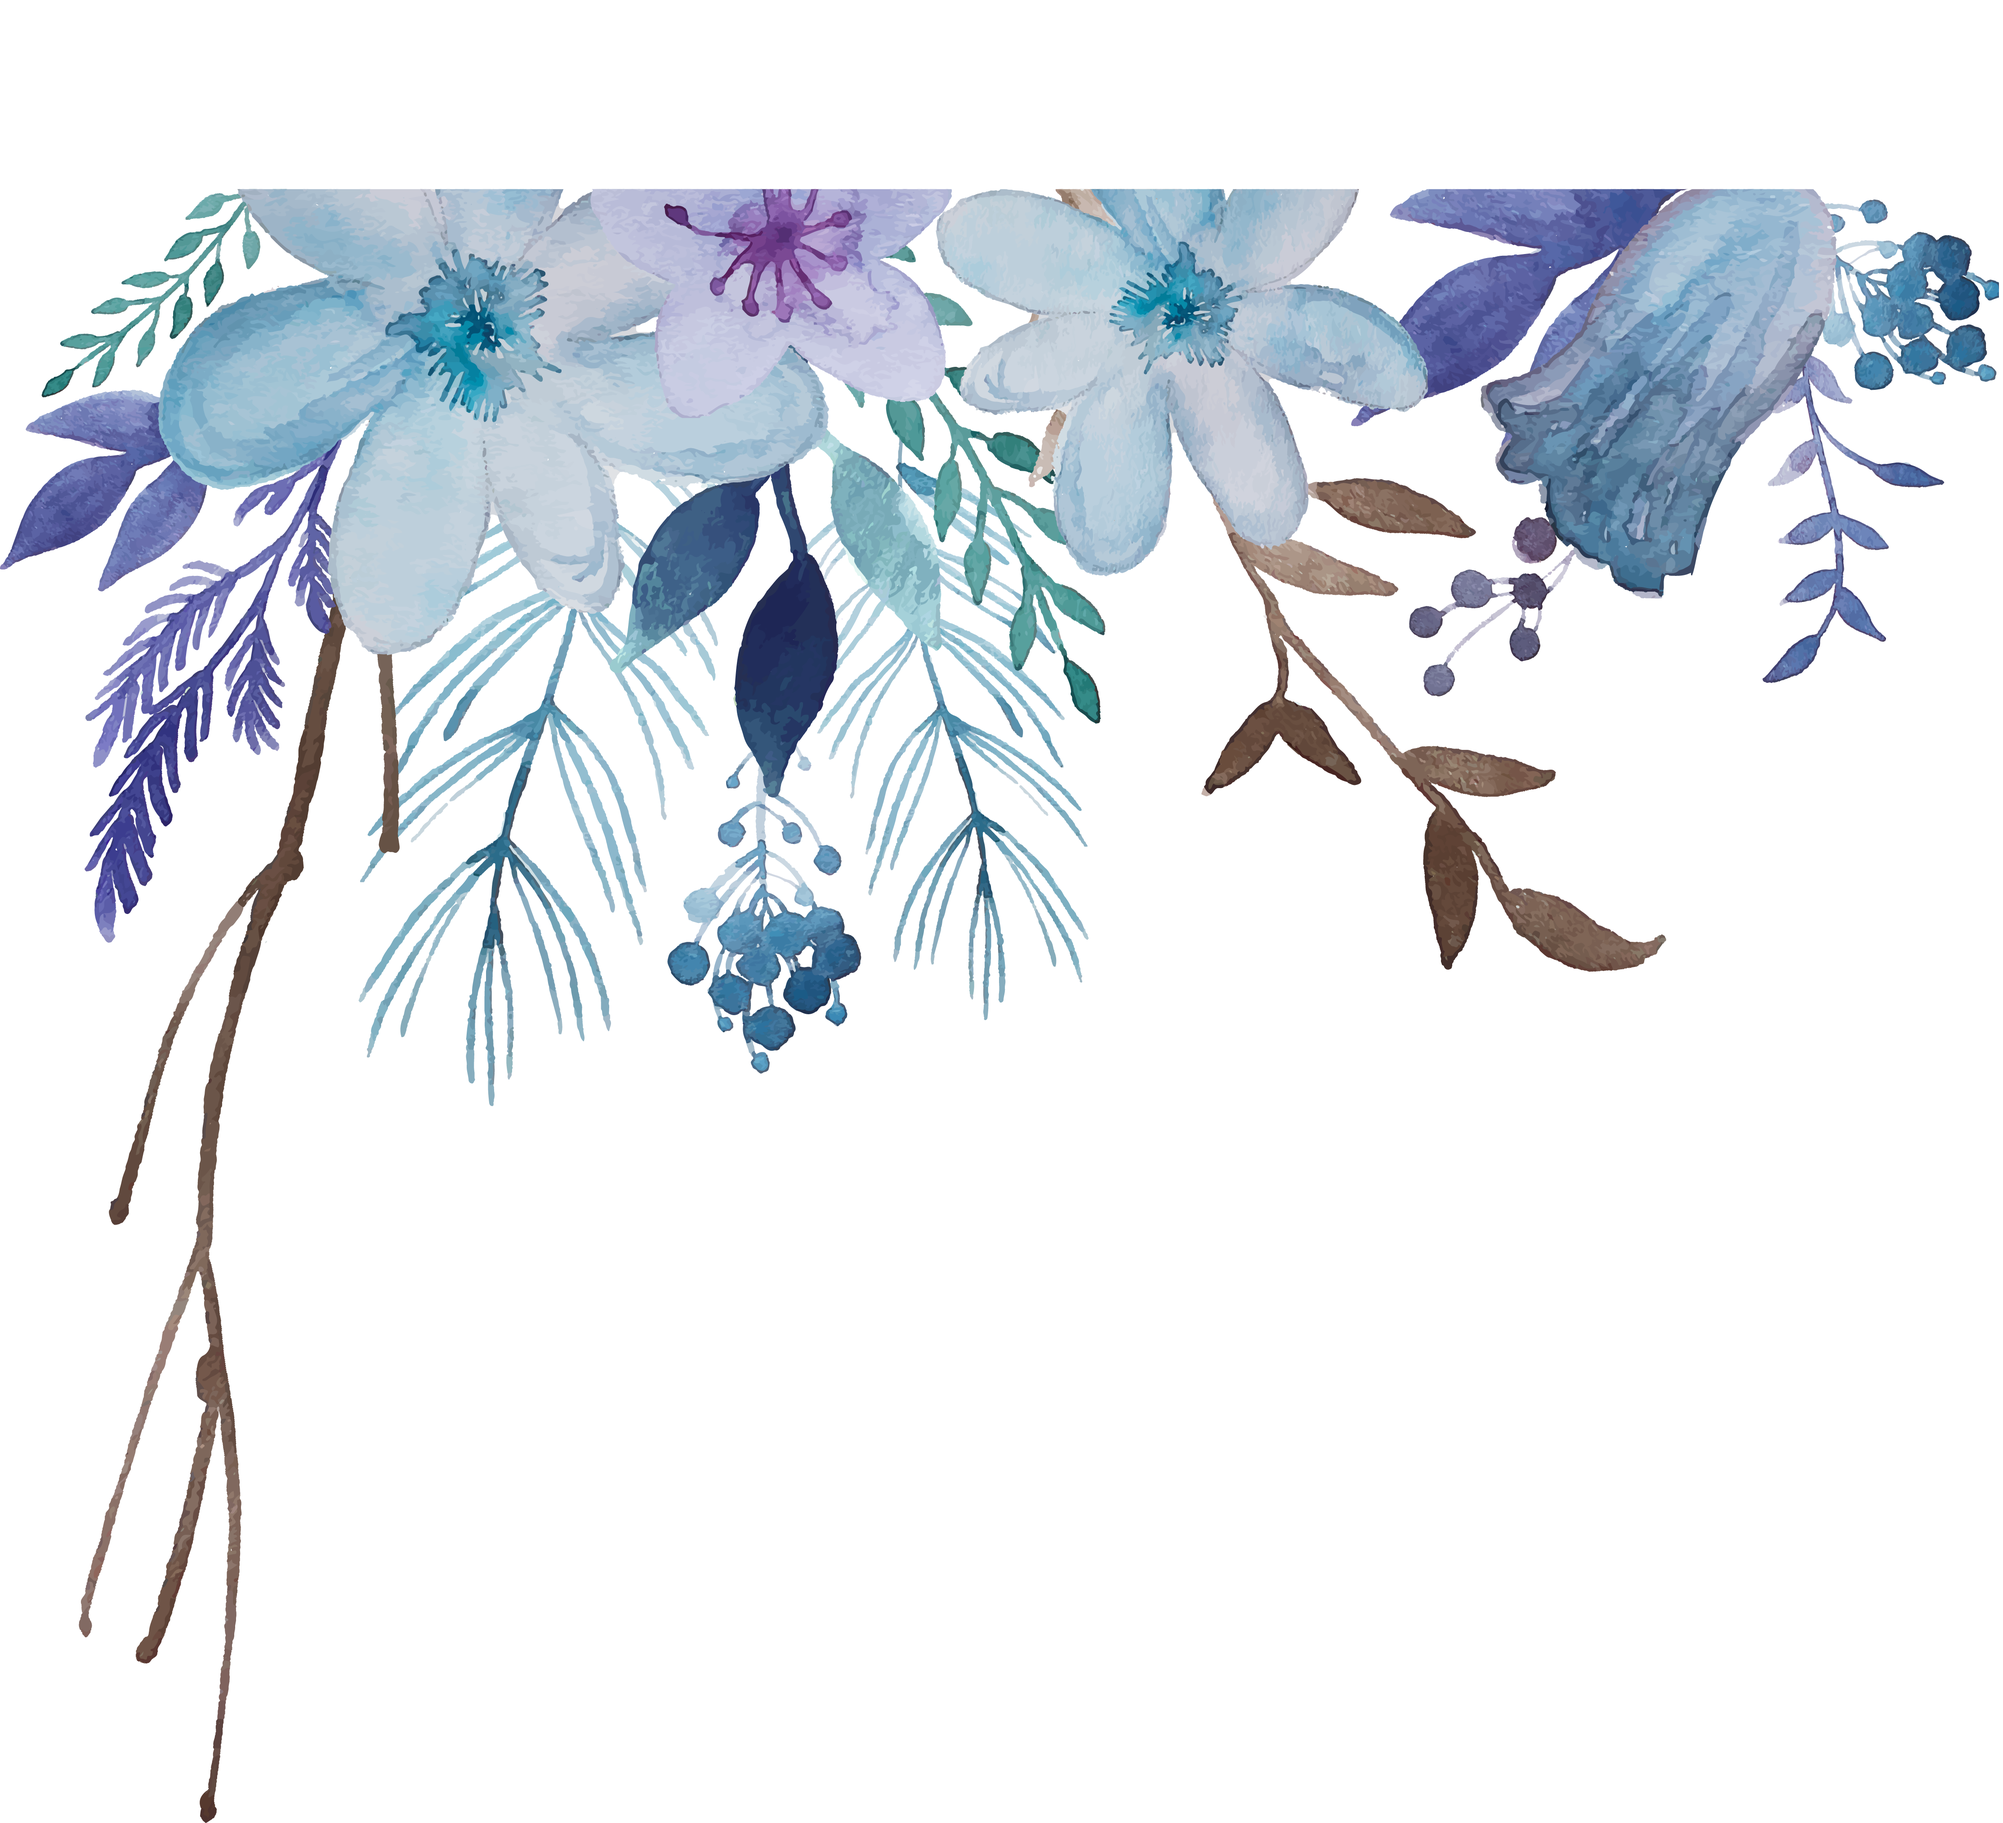
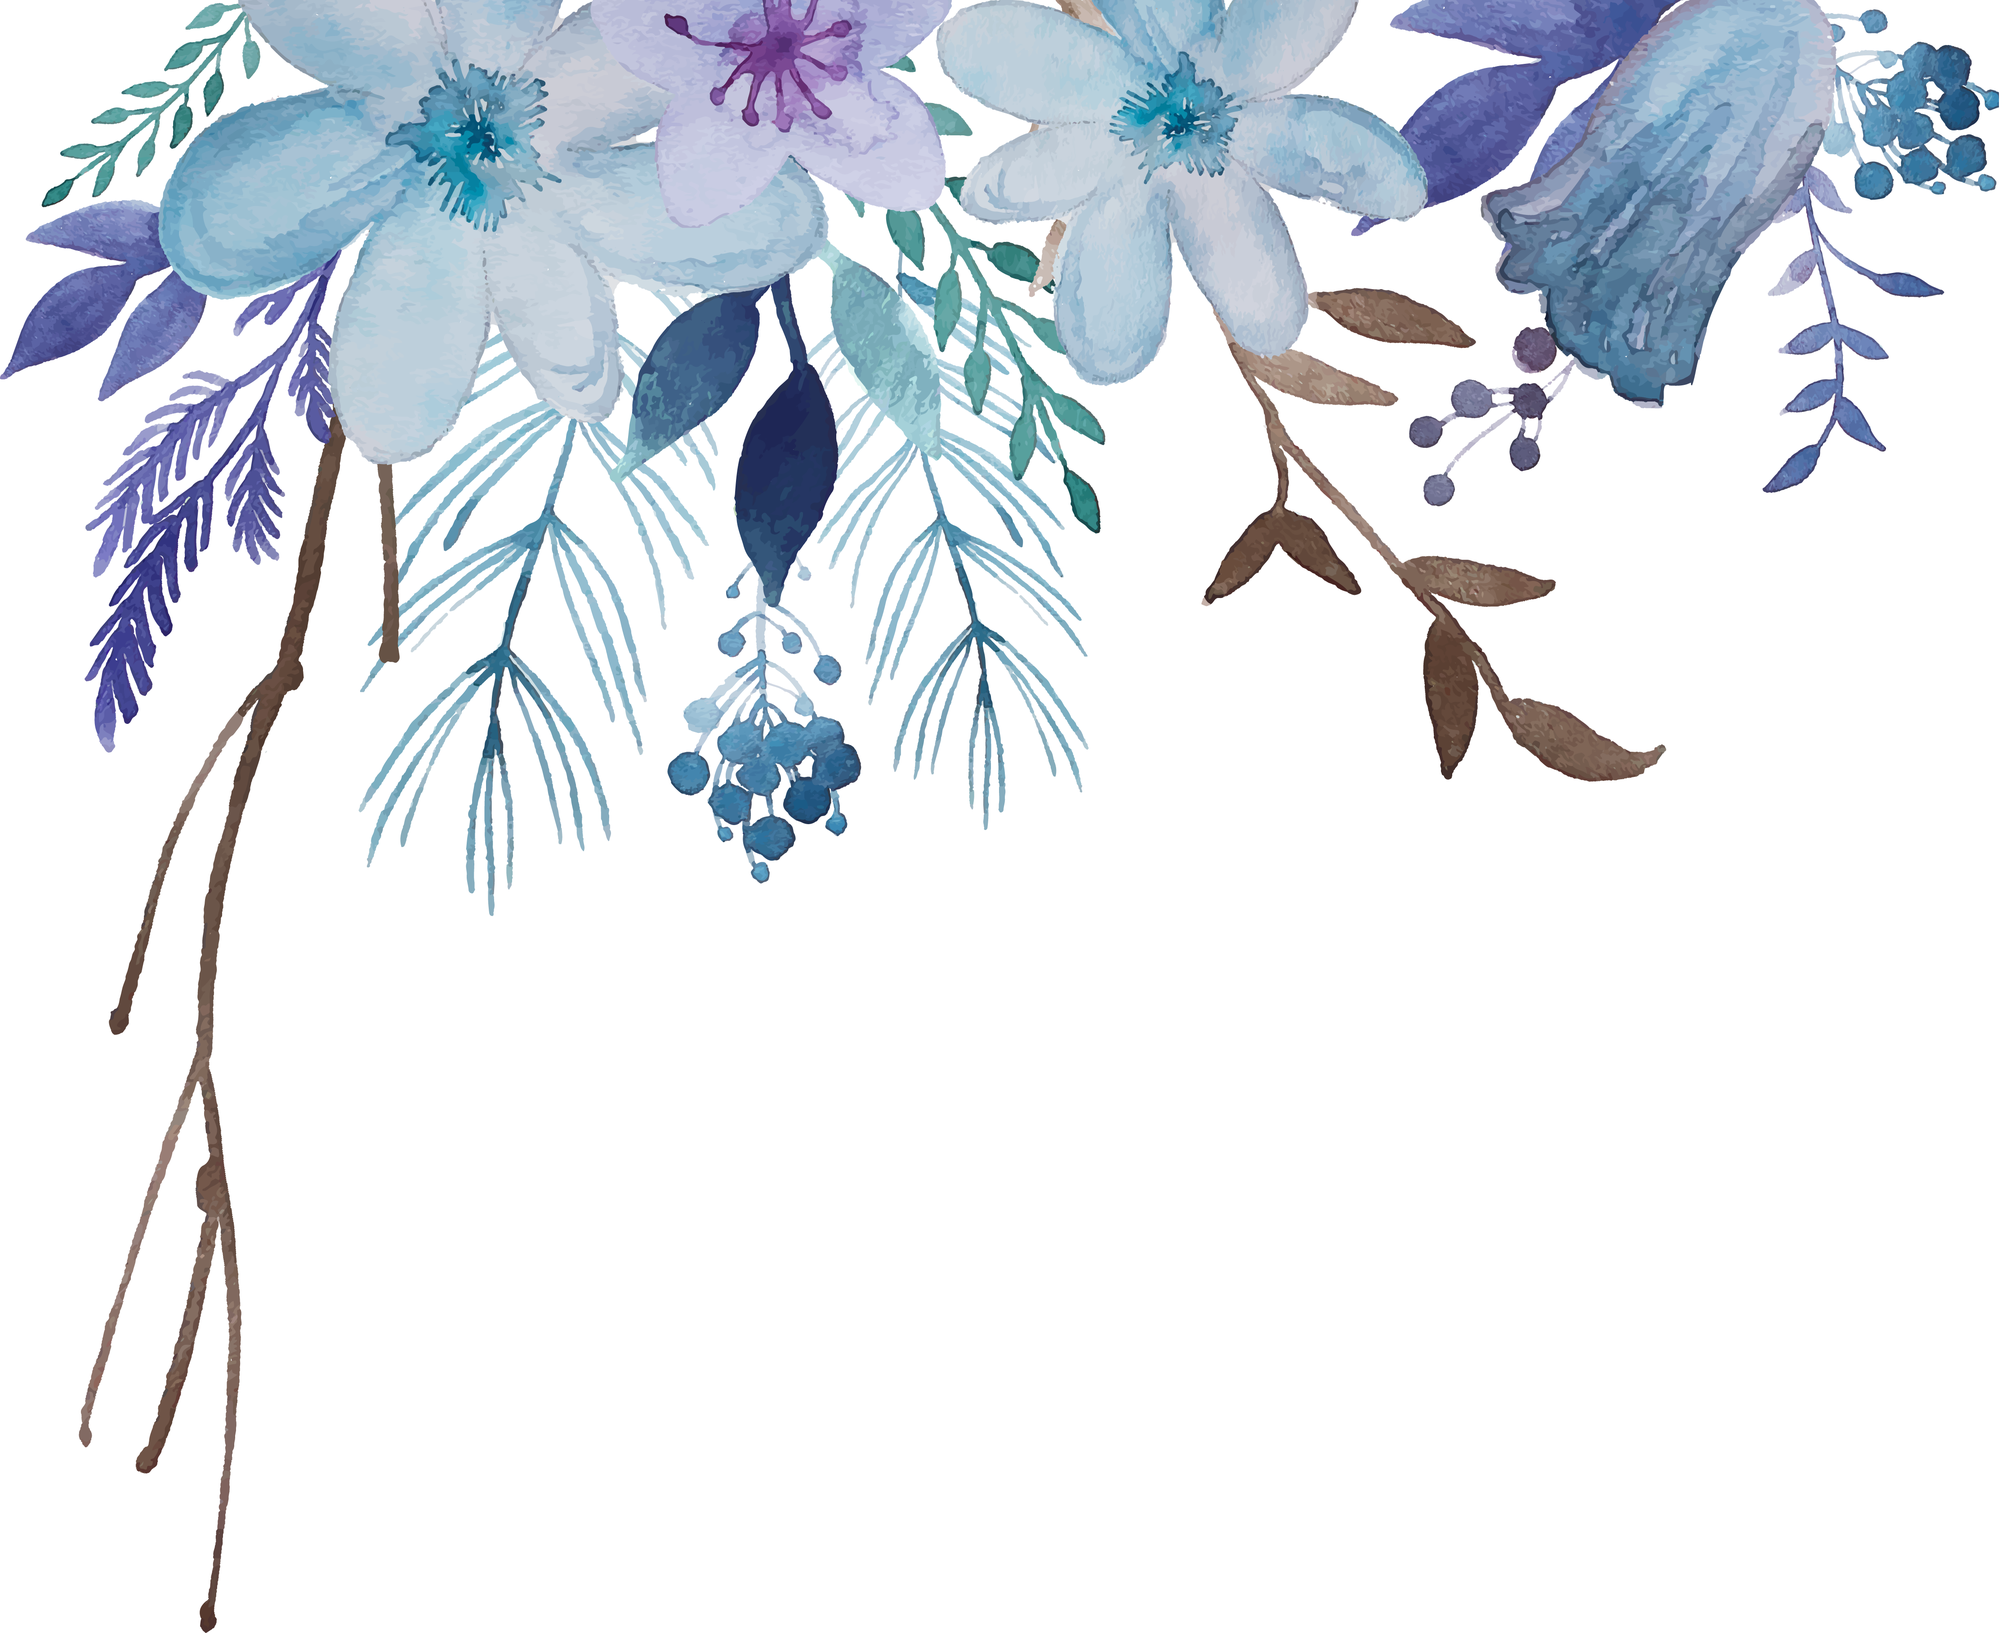
ujhatter

diff --git a/index.css b/index.css
@@ -2,4 +2,7 @@ body {
     text-align: center;
     background-image: url('virag.png');
     background-repeat: no-repeat;
+    background-attachment: fixed;
+    background-position: center;
+    background-size: contain;
 }
